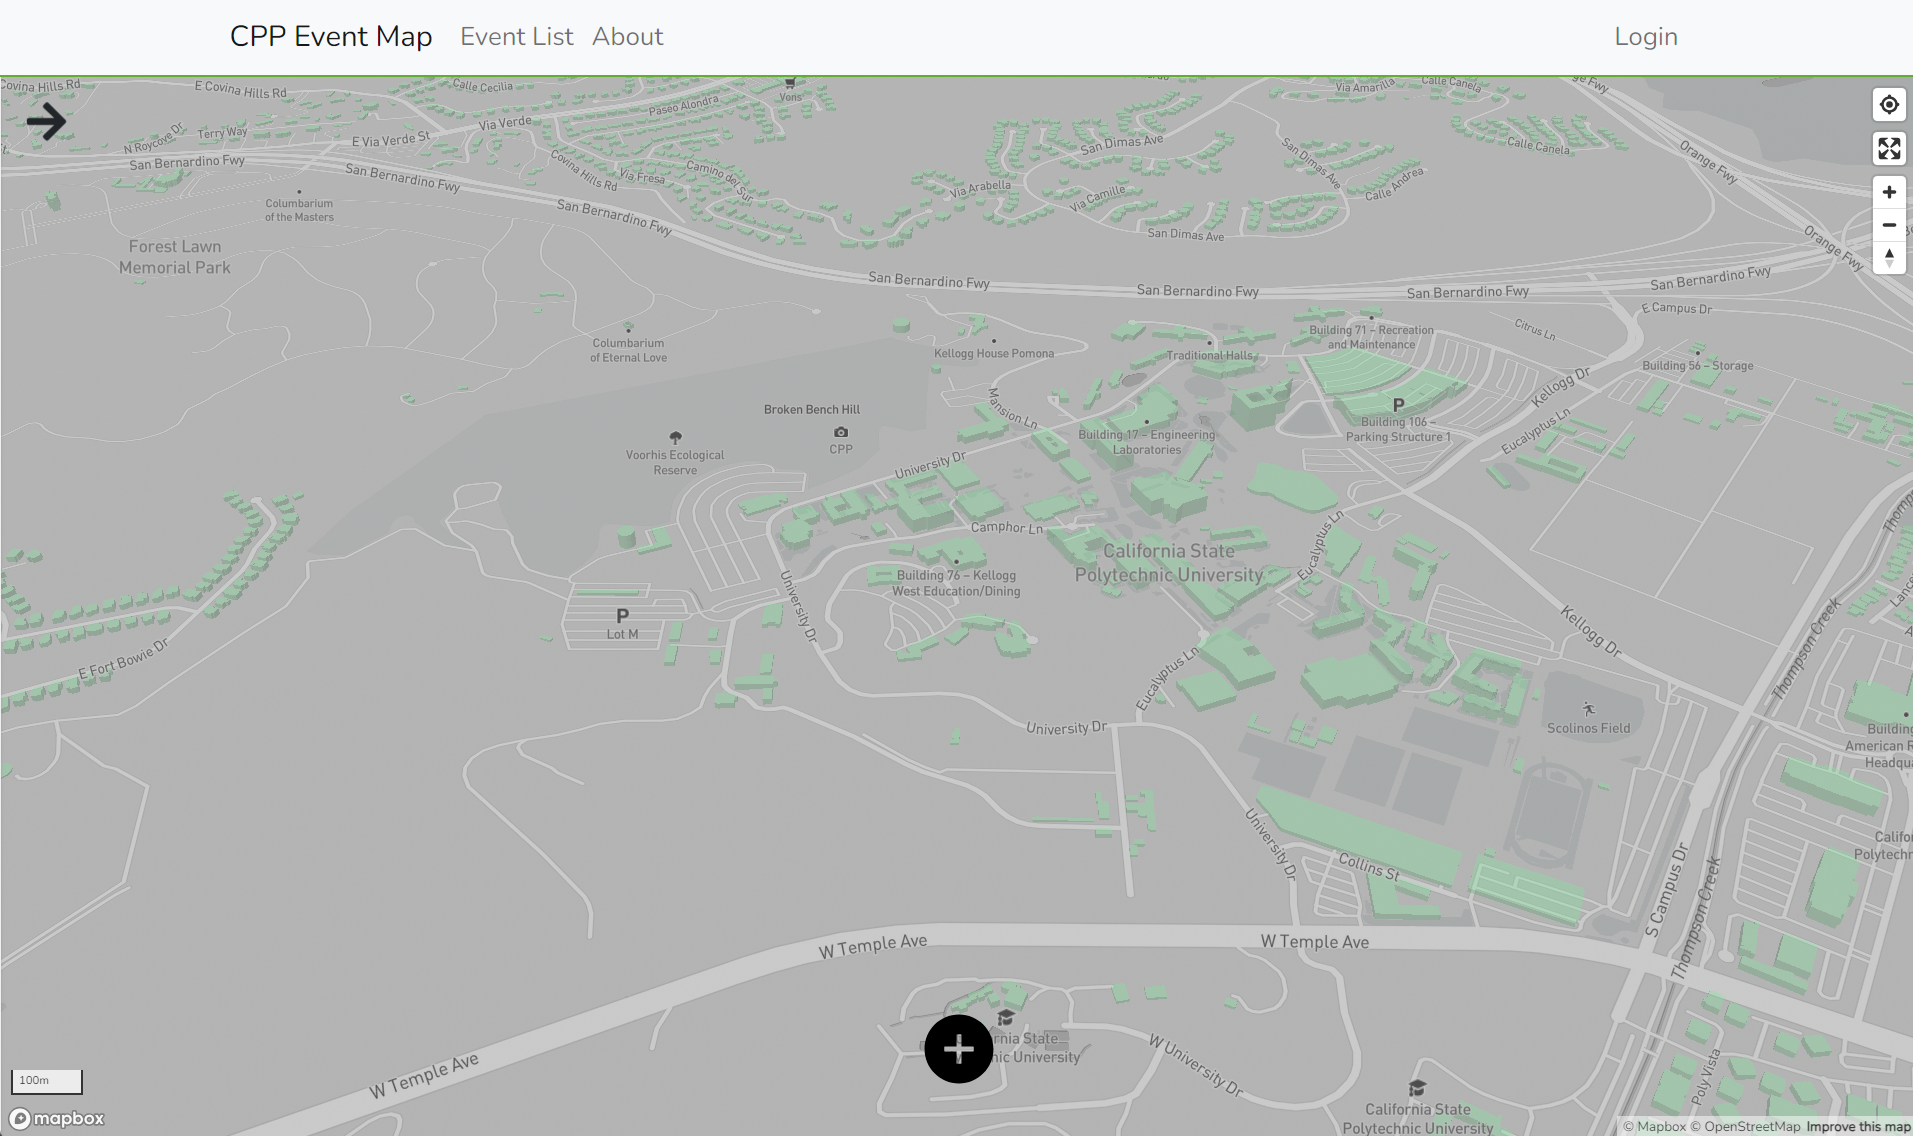
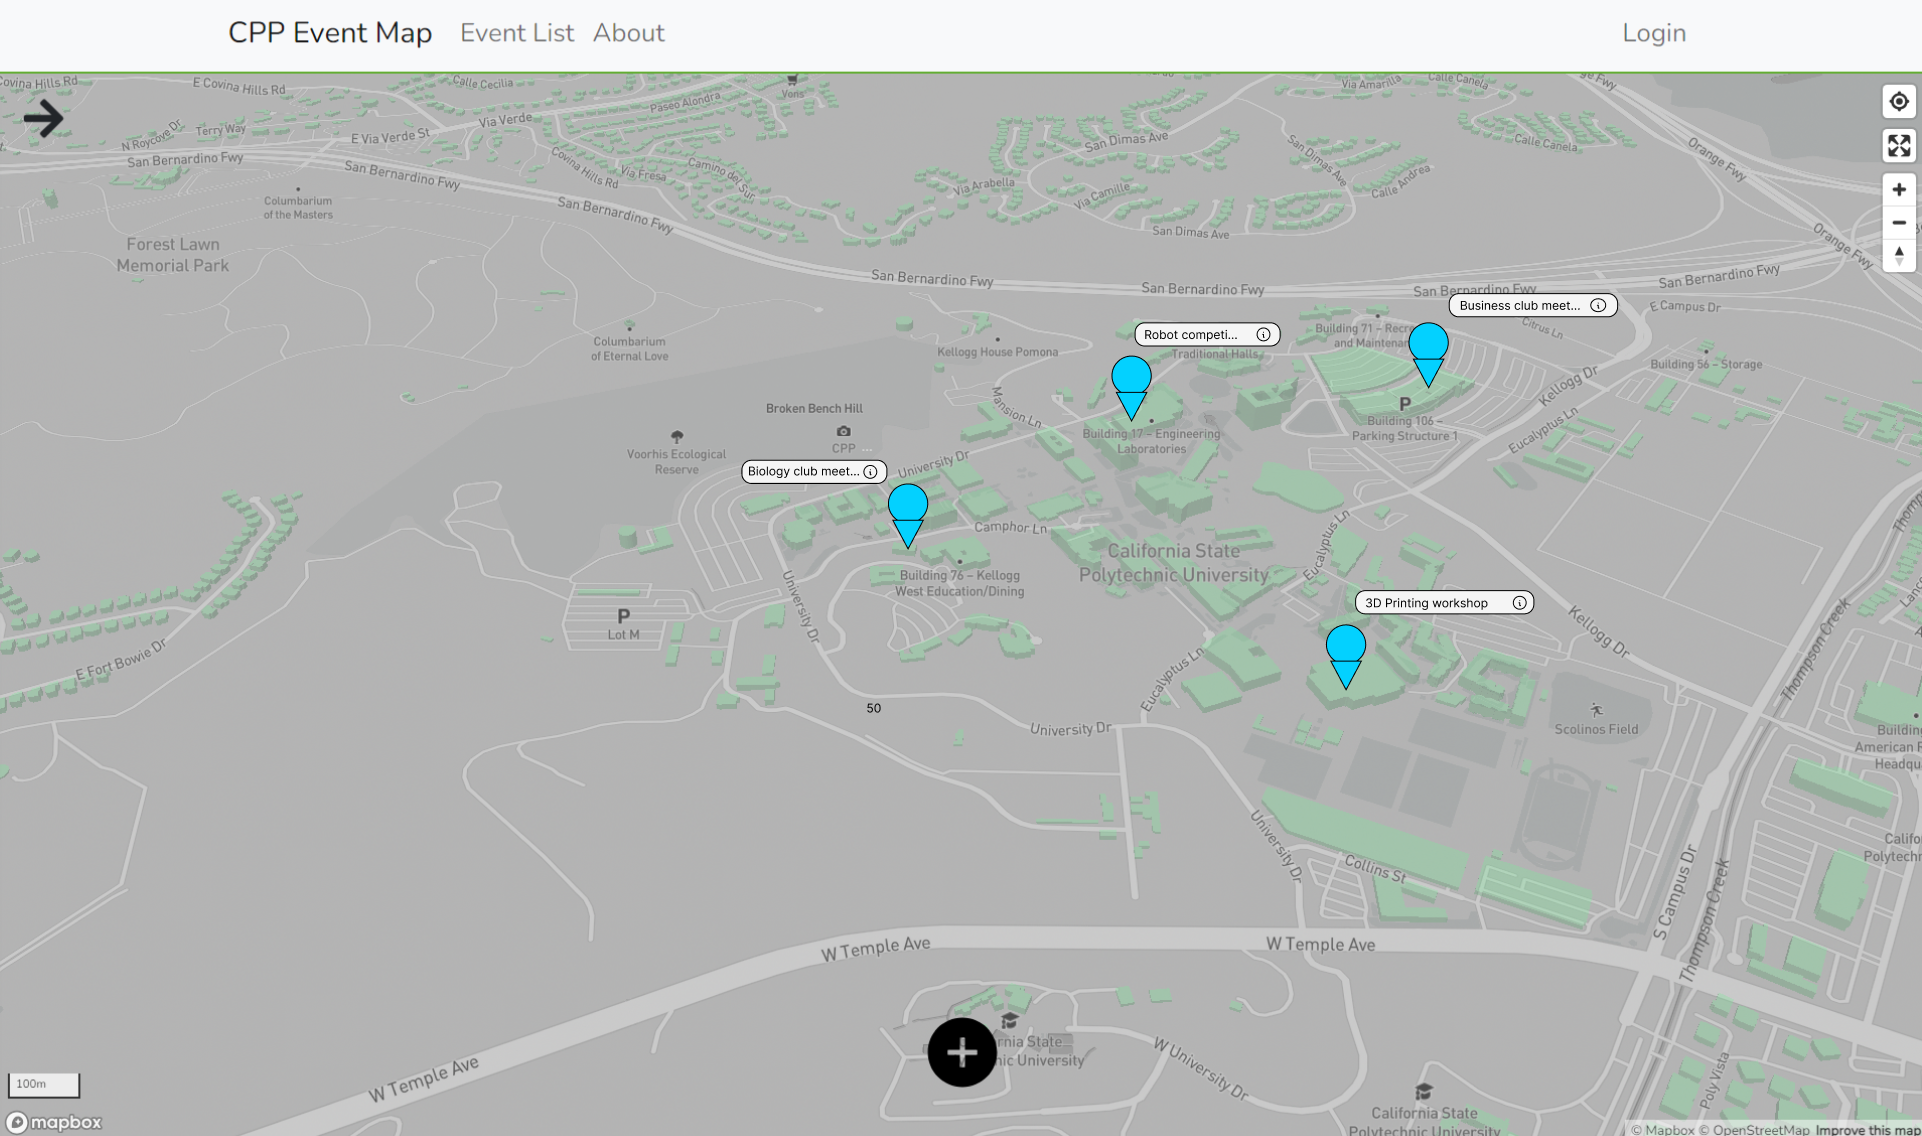
update project with new layout and new images/date, wip

diff --git a/src/pages/ProjectPage/ProjectPage.tsx b/src/pages/ProjectPage/ProjectPage.tsx
@@ -12,11 +12,12 @@ import {
 	useMantineColorScheme,
 	Pill,
 	TextInput,
+	SimpleGrid,
 } from "@mantine/core";
 
 import projectsData from "../../data/projects_data.json";
 import { useDisclosure } from "@mantine/hooks";
-import { MouseEvent, useEffect, useState } from "react";
+import { MouseEvent, useState } from "react";
 import { FaAppStoreIos, FaGithub } from "react-icons/fa";
 
 import classes from './ProjectPage.module.css'
@@ -114,13 +115,16 @@ export const ProjectPage = () => {
 						/>	
 				</div>
 				<div className={classes.projects}>
-					{filteredProjects.slice(0, 4).map((project) => (
-						<Project
-							key={project.title}
-							{...project}
-							openProject={() => handleOpenProject(project)}
-						/>
-					))}
+					<SimpleGrid cols={3}>
+						{filteredProjects.map((project) => (
+							<Project
+								key={project.title}
+								{...project}
+								openProject={() => handleOpenProject(project)}
+							/>
+						))}
+					</SimpleGrid>
+					
 				</div>
 		</>
 	);
@@ -128,7 +132,6 @@ export const ProjectPage = () => {
 
 interface Skill {
 	name: string;
-	icon_src: string;
 	size: number;
 }
 
@@ -190,24 +193,18 @@ const Project = ({
 				onClick={openProject}
 				radius="md"
 			>
-				<Box pt="md" className={classes["project-image-box"]}>
-					<div
-						className={classes['project-image-inner']}
-					>
-						<Image className={classes["project-image image-dim"]} src={src} alt={alt} />
-					</div>
-				</Box>
-
+				
+				<Image className={classes["image"]} src={src} alt={alt} />
+			
 				<Box p="md" className={classes["project-footer"]}>
 					<div className={classes["project-text-header"]}>
 						<Group justify="space-between" wrap="nowrap">
-							<Title
-								order={3}
-								className={classes["project-title"]}
+							<Text
+								className={classes["title"]}
 								style={{ color: titleColor }}
 							>
 								{title}
-							</Title>
+							</Text>
 							<div className={classes["project-links"]}>
 								{links &&
 									links.map((link) => (

diff --git a/src/pages/ProjectPage/ProjectPage.module.css b/src/pages/ProjectPage/ProjectPage.module.css
@@ -44,7 +44,7 @@
 
 .project-box {
 	display: flex !important;
-	flex-direction: row-reverse !important;
+	flex-direction: column !important;
 	margin-bottom: 20px;
 	overflow: hidden;
 	border: 1px solid rgba(64, 64, 64, 0.6);
@@ -59,56 +59,14 @@
 .project-box:last-child {
 	margin-bottom: 0;
 }
-.project-box:hover .project-image-inner {
-	transform: translate(10px, -10px) rotate(0.5deg);
-}
 
-.project-image-box {
-	width: 50% !important;
-	min-height: 270px;
-	flex-shrink: 0;
-	overflow: hidden;
-	position: relative;
-}
-
-.project-image-inner {
-	position: absolute;
-	left: 0;
-	top: 20px;
-	width: 100% !important;
-	height: 99%;
-	transition: transform 0.33s ease;
-	will-change: transform;
-	overflow: hidden;
-	border-radius: 10px 0 0 10px;
-}
-
-.project-image-inner-dark {
-	border-top: calc(0.1rem * var(--mantine-scale)) solid
-		var(--mantine-color-gray-3);
-	border-left: calc(0.1rem * var(--mantine-scale)) solid
-		var(--mantine-color-gray-3);
-}
-
-.project-image-inner-light {
-	border-top: calc(0.1rem * var(--mantine-scale)) solid
-		var(--mantine-color-gray-6);
-	border-left: calc(0.1rem * var(--mantine-scale)) solid
-		var(--mantine-color-gray-6);
-}
-
-.project-image {
-	position: absolute;
-	left: 0;
-	object-position: top left;
+.image {
+	object-position: top center;
+	object-fit: cover !important;
 	width: 100% !important;
 	height: 100%;
 	border-radius: 0px !important;
-}
-
-.project-image-inner:hover .project-hover-overlay {
-	opacity: 1;
-	visibility: visible;
+	min-height: 200px !important;
 }
 
 .project-inner {
@@ -145,8 +103,9 @@
 	padding-bottom: 10px;
 }
 
-.project-title {
-	font-weight: 600 !important;
+.title {
+	font-weight: 500 !important;
+	font-size: 1.2rem !important;
 }
 
 .project-short-descrip {
